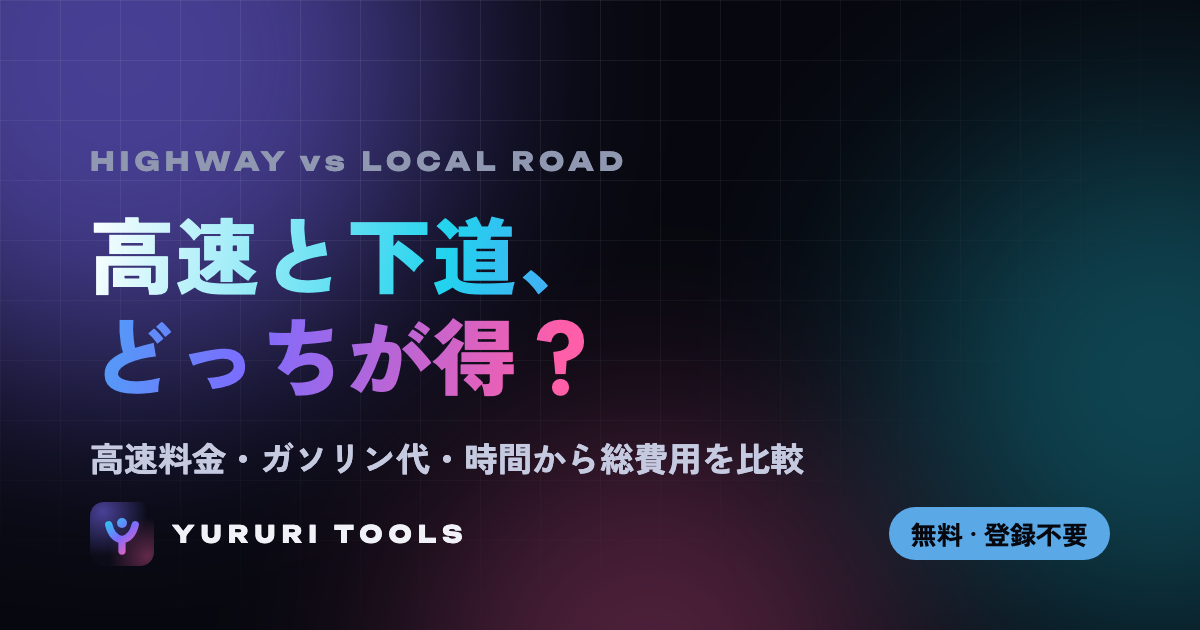
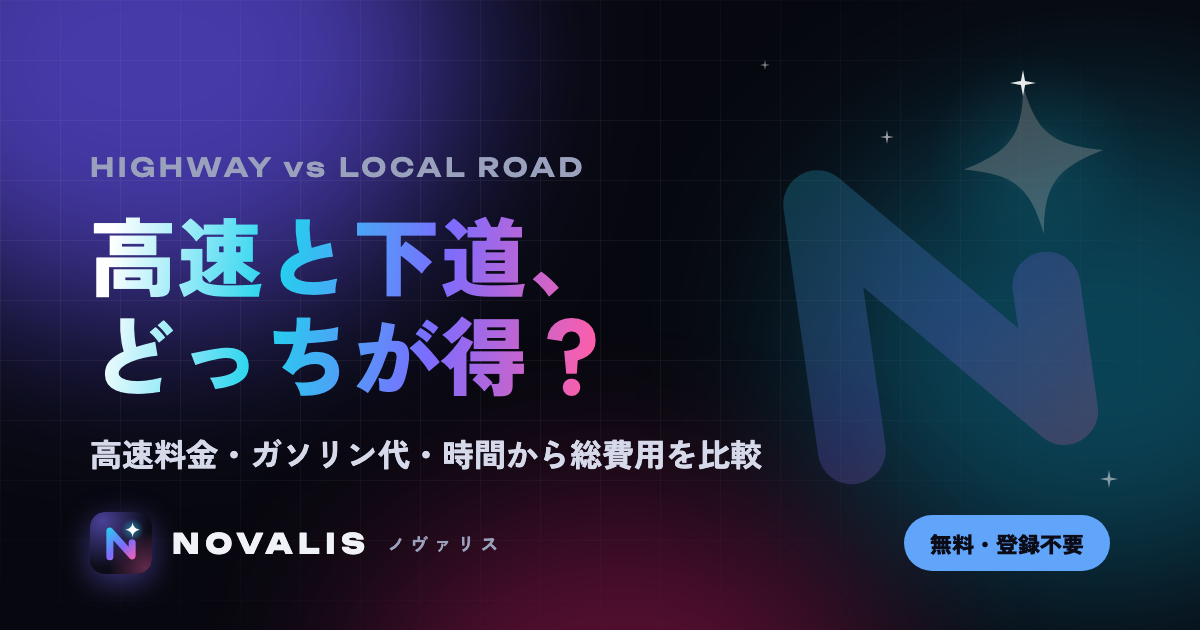
ロゴとOGP画像を novalis の新デザインに作り直し

diff --git a/index.html b/index.html
@@ -563,16 +563,13 @@
       <a class="home" href="https://novalis-lab.github.io/">
         <svg viewBox="0 0 512 512" aria-hidden="true">
           <defs>
-            <linearGradient id="lg" gradientUnits="userSpaceOnUse" x1="140" y1="120" x2="372" y2="400">
-              <stop offset="0" stop-color="#22d3ee"/><stop offset="0.5" stop-color="#7c6cff"/><stop offset="1" stop-color="#ff5ea8"/>
+            <linearGradient id="lg" gradientUnits="userSpaceOnUse" x1="150" y1="110" x2="380" y2="400">
+              <stop offset="0" stop-color="#22d3ee"/><stop offset="0.55" stop-color="#7c6cff"/><stop offset="1" stop-color="#ff5ea8"/>
             </linearGradient>
           </defs>
           <rect width="512" height="512" rx="112" fill="#0b0c18" stroke="rgba(255,255,255,0.15)" stroke-width="8"/>
-          <g fill="none" stroke="url(#lg)" stroke-width="58" stroke-linecap="round" stroke-linejoin="round">
-            <path d="M150 182 C170 262 214 296 256 300 C298 296 342 262 362 182"/>
-            <path d="M256 300 V392"/>
-          </g>
-          <circle cx="256" cy="168" r="40" fill="url(#lg)"/>
+          <path d="M164 370 V158 L348 362 V254" fill="none" stroke="url(#lg)" stroke-width="58" stroke-linecap="round" stroke-linejoin="round"/>
+          <path d="M352 82 C358 124 370 136 412 146 C370 156 358 168 352 210 C346 168 334 156 292 146 C334 136 346 124 352 82 Z" fill="#ffffff"/>
         </svg>
         <span class="home-name">NOVALIS</span>
       </a>
